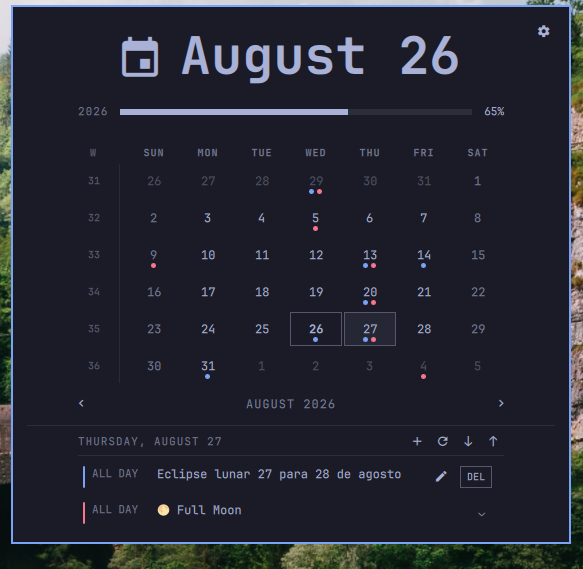
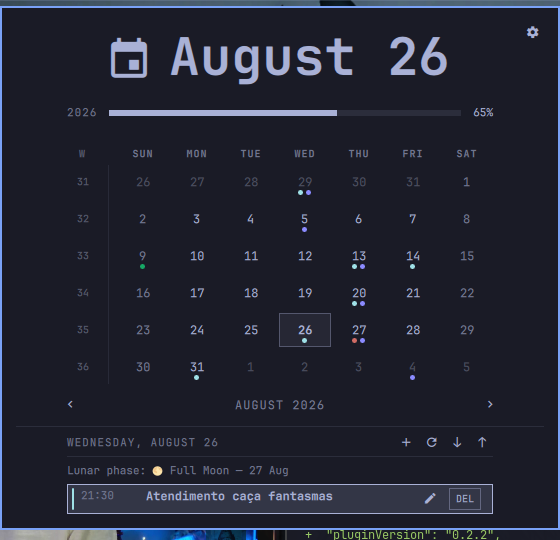
style(panel): improve time picker combobox popups
- Increase width and popup height for time fields
- Add background and border styling to popups
- Fix placeholder display text handling
- Update preview screenshot

diff --git a/Panel.qml b/Panel.qml
@@ -2291,15 +2291,14 @@ Panel {
 
               Controls.ComboBox {
                 id: eventHourField
-                width: Style.space(34)
-                displayText: currentIndex < 0 ? "HH" : currentText
+                width: Style.space(42)
                 model: root.eventHours
                 editable: false
                 enabled: !root.eventAllDayEditing && !root.calendarCreating && !root.calendarMutating
                   && !root.eventTitleOnlyEditing
                 contentItem: Text {
                   leftPadding: Style.space(5)
-                  text: eventHourField.displayText
+                  text: eventHourField.currentIndex < 0 ? "HH" : eventHourField.currentText
                   color: root.contentForeground
                   font.family: root.contentFontFamily
                   verticalAlignment: Text.AlignVCenter
@@ -2312,11 +2311,19 @@ Panel {
                 popup: Controls.Popup {
                   y: eventHourField.height
                   width: eventHourField.width
+                  z: 100
+                  focus: true
+                  modal: true
                   padding: 1
+                  background: Rectangle {
+                    color: Color.popups.background
+                    border.color: Color.accent
+                    border.width: 1
+                  }
                   contentItem: ListView {
                     clip: true
-                    model: eventHourField.popup.visible ? eventHourField.delegateModel : null
-                    implicitHeight: Math.min(contentHeight, Style.space(220))
+                    model: eventHourField.delegateModel
+                    height: Math.min(contentHeight, Style.space(240))
                   }
                 }
                 delegate: Controls.ItemDelegate {
@@ -2339,15 +2346,14 @@ Panel {
 
               Controls.ComboBox {
                 id: eventMinuteField
-                width: Style.space(34)
-                displayText: currentIndex < 0 ? "MM" : currentText
+                width: Style.space(42)
                 model: root.eventMinutes
                 editable: false
                 enabled: !root.eventAllDayEditing && !root.calendarCreating && !root.calendarMutating
                   && !root.eventTitleOnlyEditing
                 contentItem: Text {
                   leftPadding: Style.space(5)
-                  text: eventMinuteField.displayText
+                  text: eventMinuteField.currentIndex < 0 ? "MM" : eventMinuteField.currentText
                   color: root.contentForeground
                   font.family: root.contentFontFamily
                   verticalAlignment: Text.AlignVCenter
@@ -2360,11 +2366,19 @@ Panel {
                 popup: Controls.Popup {
                   y: eventMinuteField.height
                   width: eventMinuteField.width
+                  z: 100
+                  focus: true
+                  modal: true
                   padding: 1
+                  background: Rectangle {
+                    color: Color.popups.background
+                    border.color: Color.accent
+                    border.width: 1
+                  }
                   contentItem: ListView {
                     clip: true
-                    model: eventMinuteField.popup.visible ? eventMinuteField.delegateModel : null
-                    implicitHeight: Math.min(contentHeight, Style.space(220))
+                    model: eventMinuteField.delegateModel
+                    height: Math.min(contentHeight, Style.space(240))
                   }
                 }
                 delegate: Controls.ItemDelegate {
